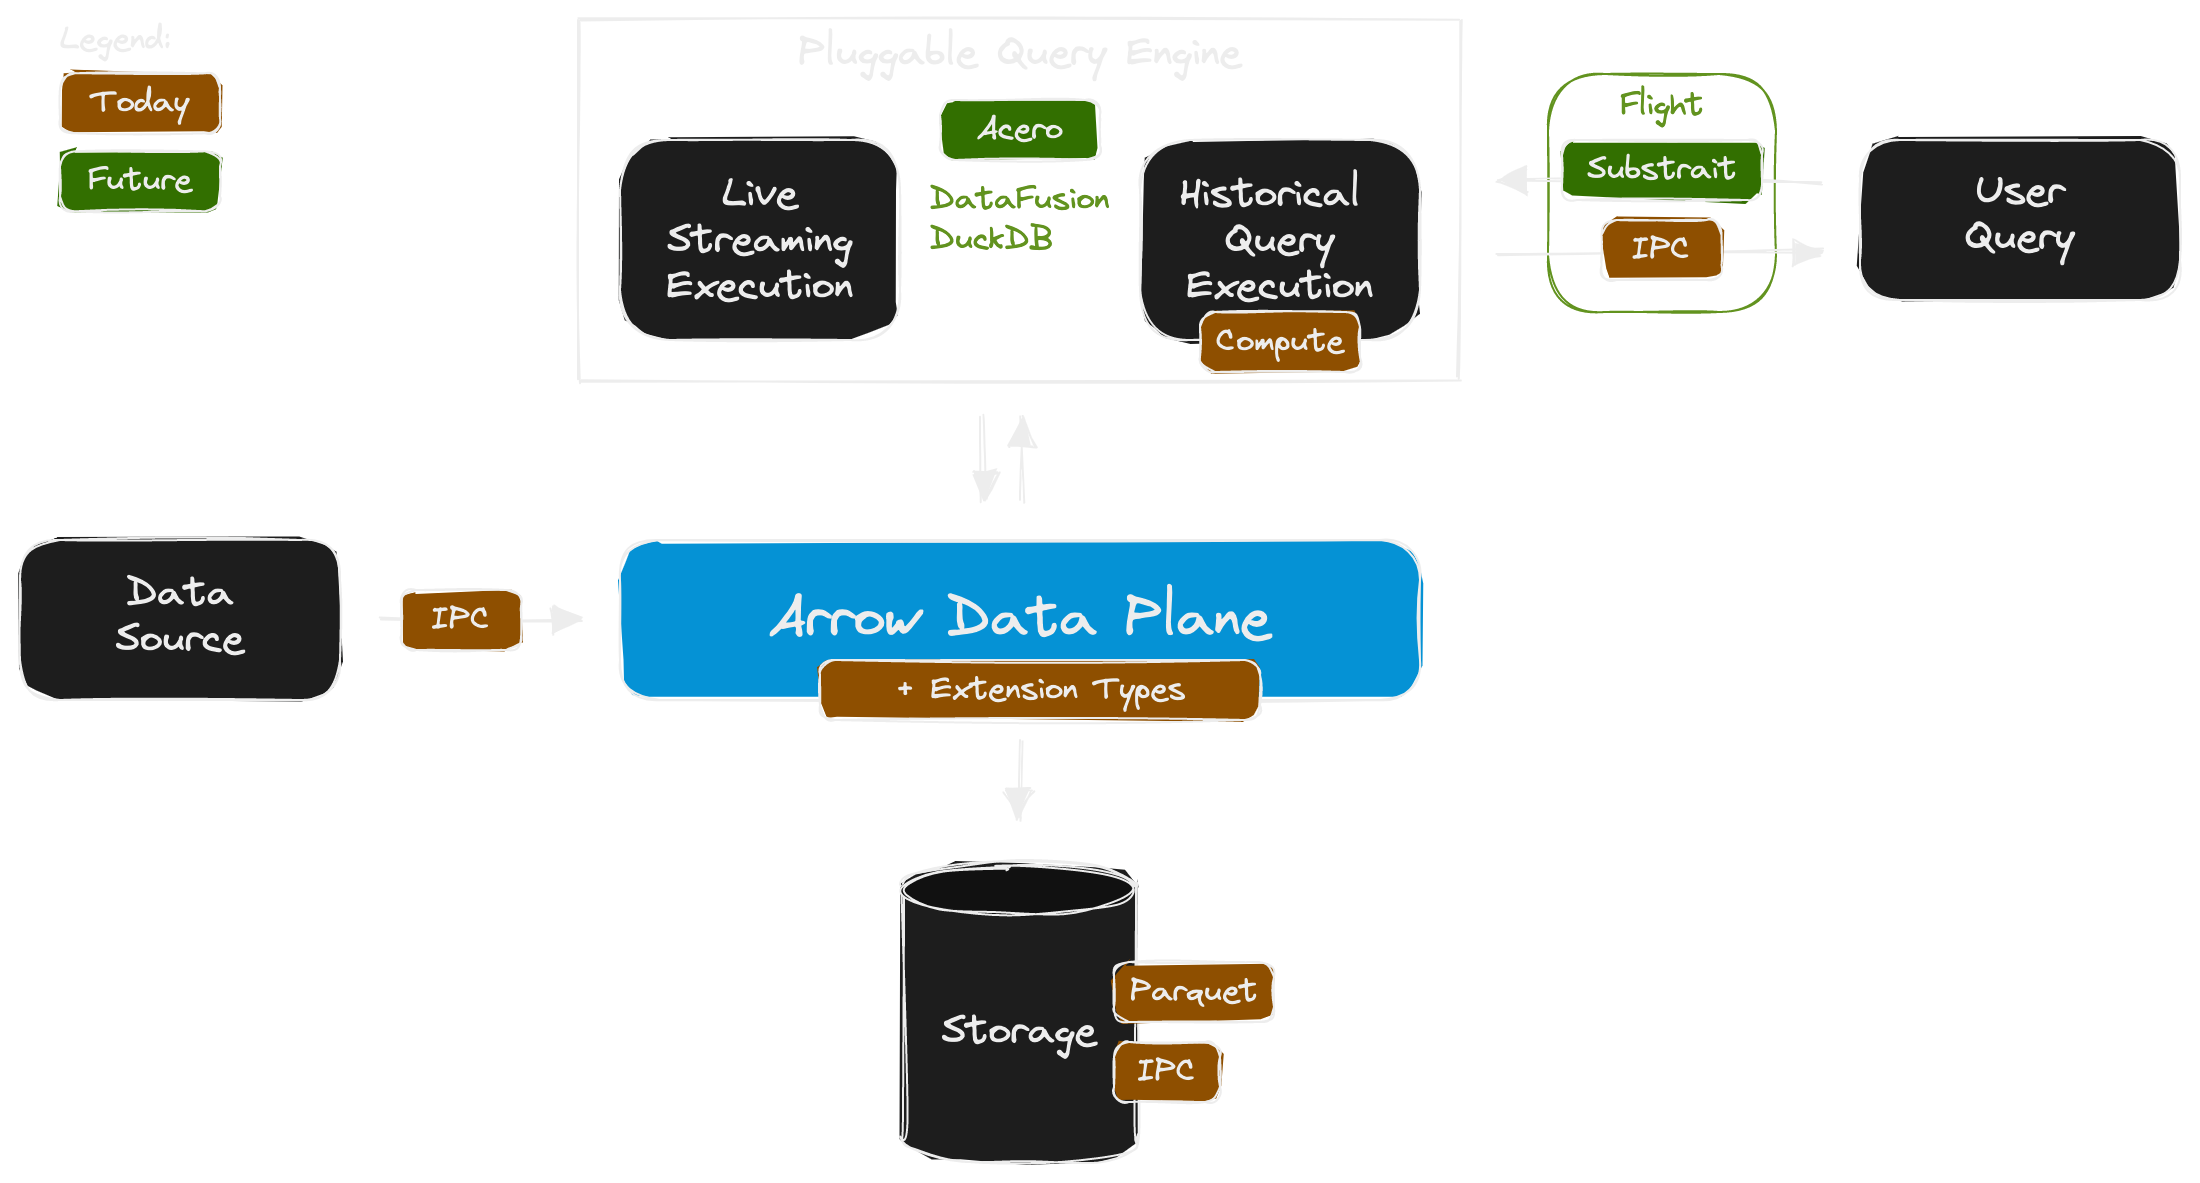
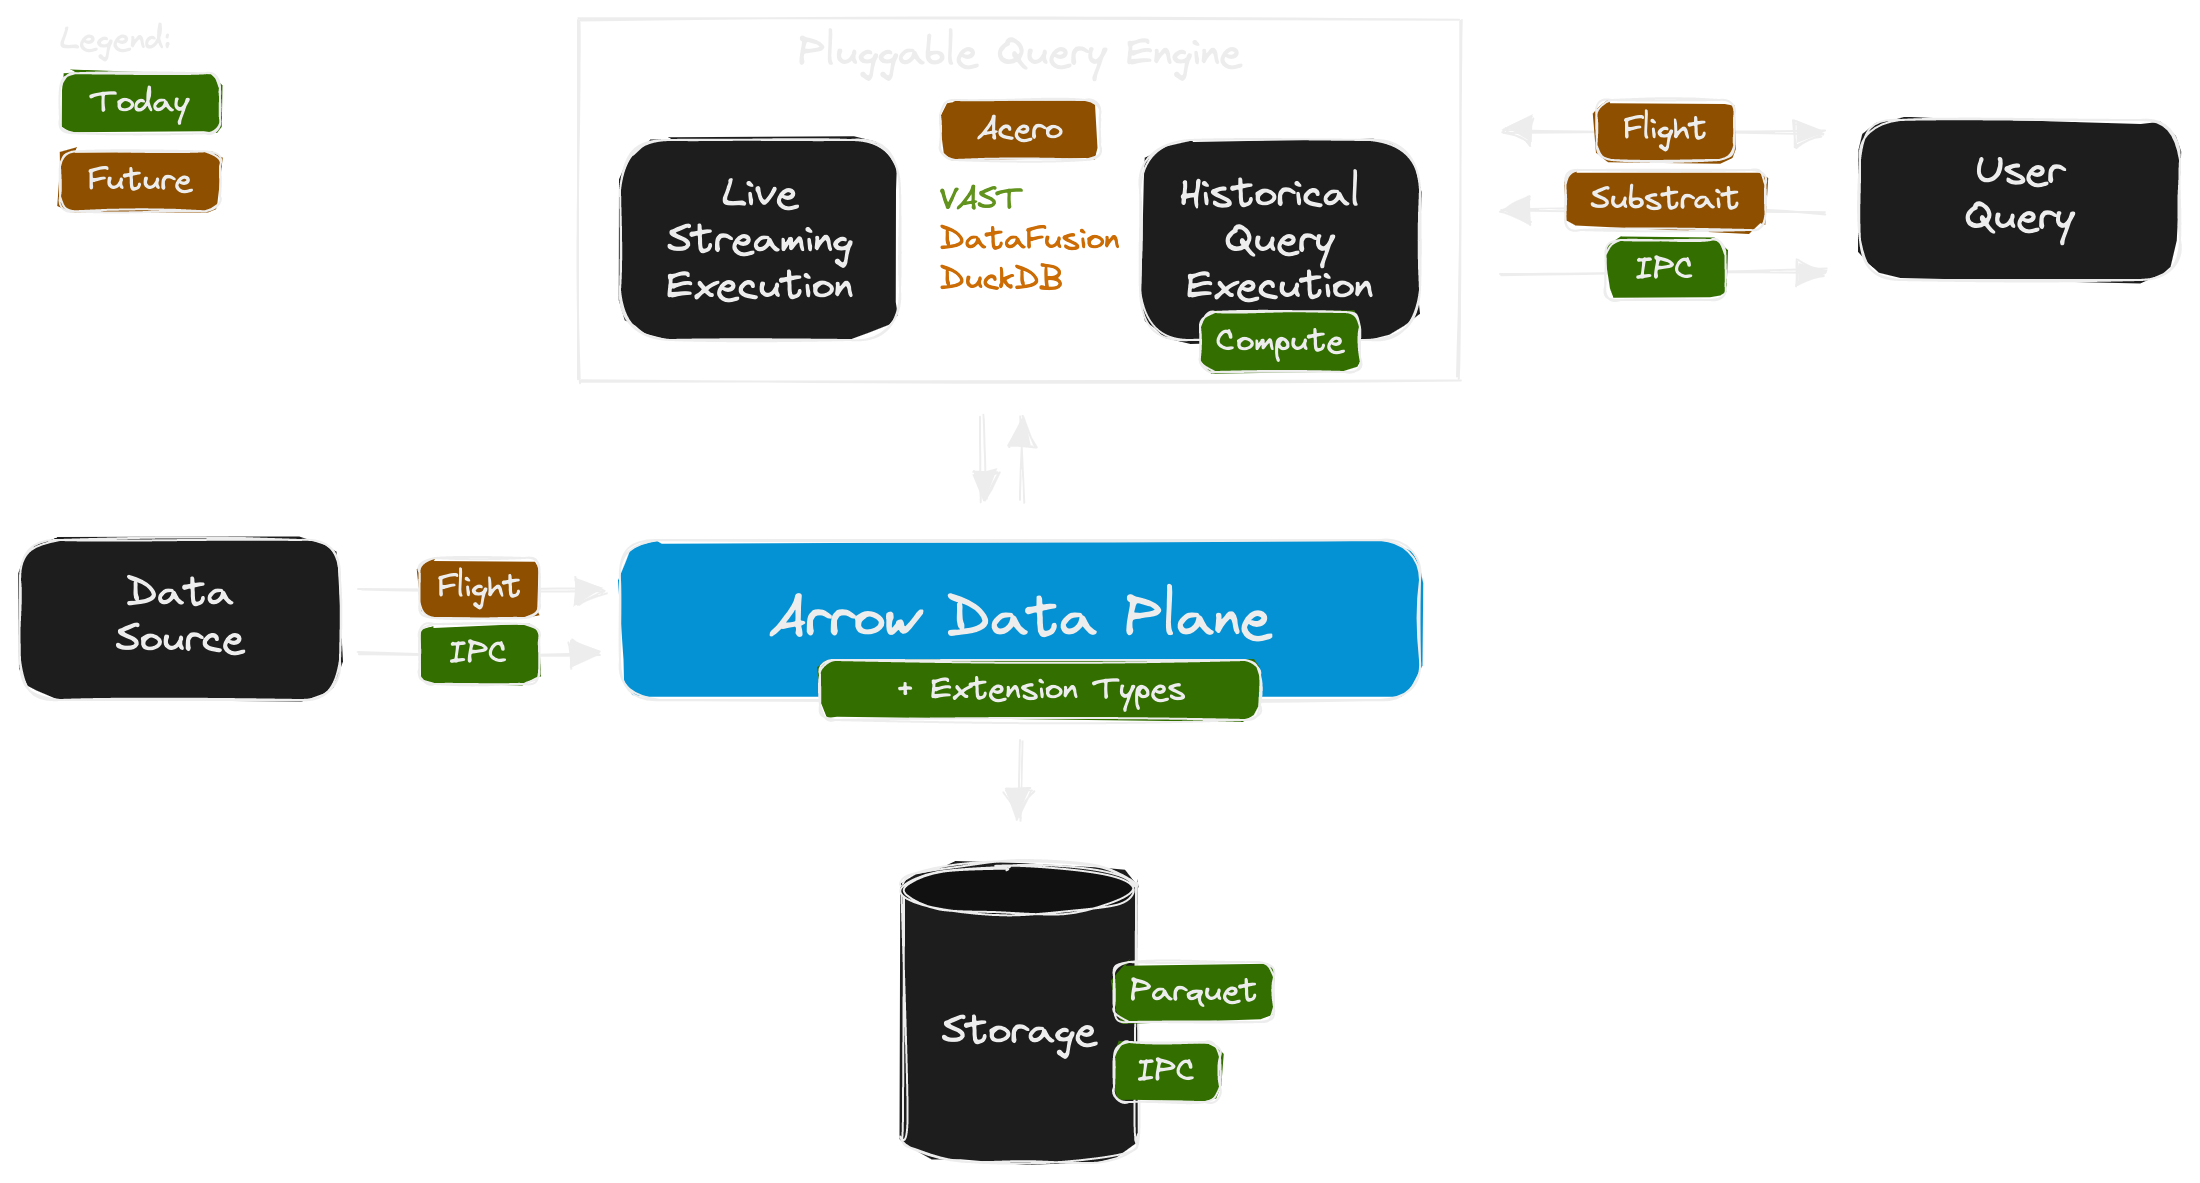
Flip colors and improve Flight exposition

diff --git a/web/blog/arrow-data-spine/index.md b/web/blog/arrow-data-spine/index.md
@@ -76,8 +76,8 @@ power the architecture of VAST:
 ![Arrow Data Plane](arrow-data-plane.dark.png#gh-dark-mode-only)
 
 In the center we have highlighted the Arrow data plane that powers other
-parts of the system. Orange pieces highlight Arrow building blocks that we use
-today, and green pieces elements we plan to use in the future. There are several
+parts of the system. Green pieces highlight Arrow building blocks that we use
+today, and orange pieces elements we plan to use in the future. There are several
 aspects worth pointing out:
 
 1. **Unified Data Plane**: When users ingest data into VAST, the
